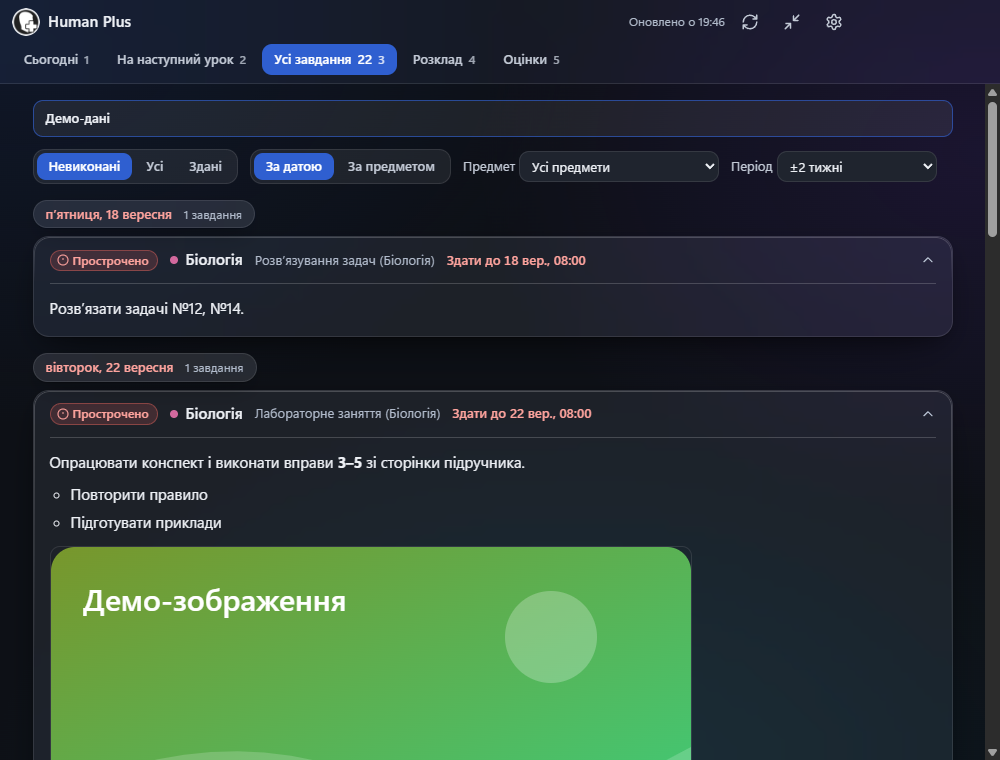
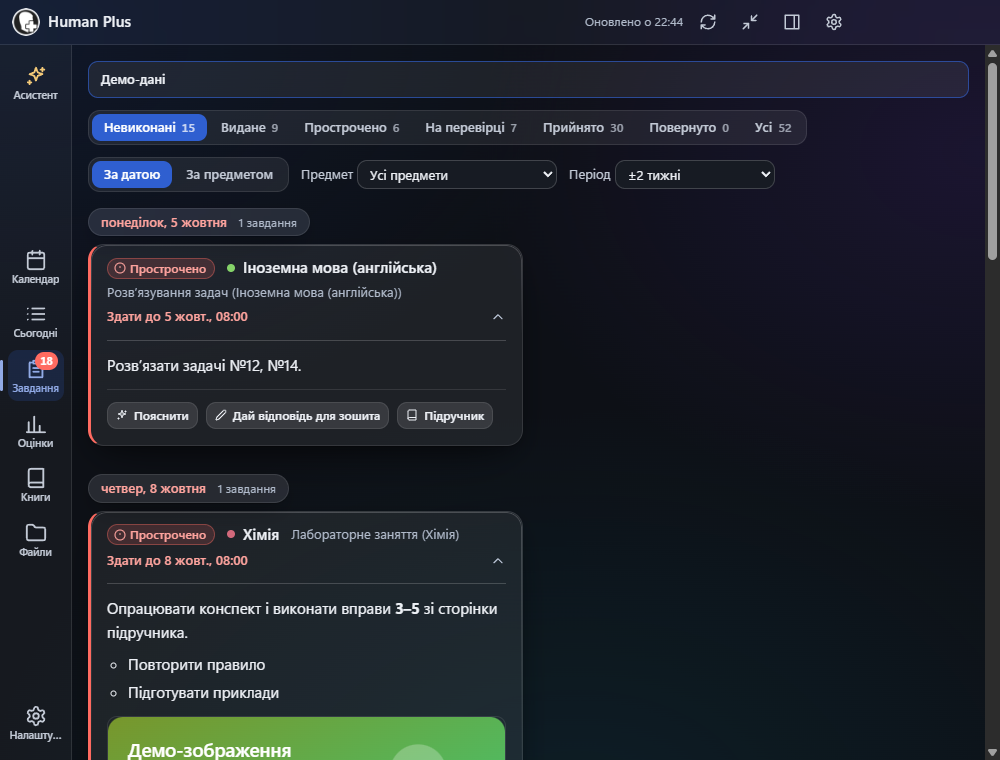
chore: release 1.2.0: README, screenshots, security notes, version bump

diff --git a/src/uk.js b/src/uk.js
@@ -190,9 +190,9 @@ export const uk = {
   },
   about: {
     title: 'Про застосунок',
-    text: 'Human Plus — застосунок для учнів HUMAN Школа, лише для читання. Він показує домашні завдання, розклад і оцінки поточного учня. Застосунок не здає завдань і не змінює даних.',
+    text: 'Human Plus — застосунок для учнів HUMAN Школа, лише для читання. Він показує розклад, домашні завдання й оцінки поточного учня, відкриває підручники й файли, а ШІ-асистент допомагає з уроками. Застосунок не здає завдань і не змінює даних у HUMAN.',
     privacy:
-      'Дані зберігаються лише на цьому комп’ютері. Паролі й токени не зберігаються. Запити йдуть тільки на human.ua.',
+      'Дані зберігаються лише на цьому комп’ютері. Паролі й токени HUMAN не зберігаються, ключі API зашифровані. Запити йдуть на human.ua і, лише коли ви пишете асистенту, на обраний сервіс ШІ.',
     version: 'Версія',
   },
   loginFootnote: 'Вхід відбувається на сторінці HUMAN; пароль до нас не потрапляє.',

diff --git a/scripts/shots.js b/scripts/shots.js
@@ -71,6 +71,14 @@ export async function takeShots({ app, mainWin, patchSettings, service, dir }) {
     }
   }
 
+  // Сторінка уроку з домашнім завданням
+  mode('dark', 'on');
+  await tab('calendar');
+  await js(`document.querySelector('.lcard[data-state="pending"] .lcard-main')?.click()`);
+  await wait(800);
+  await shot('dark-glass-lesson');
+  await js(`document.querySelector('[data-k="lesson-back"]')?.click()`);
+
   // Панель налаштувань (світла й темна)
   for (const theme of ['dark', 'light']) {
     mode(theme, 'on');

diff --git a/src/style.css b/src/style.css
@@ -2573,6 +2573,13 @@ html.glass .lcard {
   font-size: var(--fs-1);
   margin-top: 2px;
 }
+.lcard-time .num,
+.lcard-n {
+  white-space: nowrap;
+}
+.lcard-time {
+  flex-wrap: wrap;
+}
 .lcard-n {
   border: 1px solid rgb(var(--line-rgb) / 0.25);
   border-radius: 4px;

diff --git a/README.md b/README.md
@@ -1,80 +1,96 @@
 # Human Plus
 
-**Застосунок для учнів HUMAN Школа.** Усе важливе для учня на одному екрані: розклад дня, що задано, що не виконано, оцінки.
-Лише читання. Без здач завдань, без чужих даних, без телеметрії.
+**Застосунок для учнів HUMAN Школа з вбудованим ШІ-асистентом.** Розклад, домашні завдання, оцінки, підручники й файли на одному екрані,
+а поруч асистент, який бачить ваші дані й допомагає з уроками. До HUMAN лише читання: без здач завдань, без чужих даних, без телеметрії.
 
-![Сьогодні: таймлайн уроків, клік розкриває заняття й завдання](docs/img/dark-glass-today.png)
+![Календар: тиждень, смужки завдань і оцінок дня, картки уроків](docs/img/dark-glass-calendar.png)
 
-## Що вміє зараз
+## Що вміє
 
-- **Сьогодні:** привітання, таймлайн уроків із підсвіченим поточним уроком і відліком до наступного. **Клік по уроку** розкриває «Заняття» (матеріали уроку)
-  та «Завдання» (що задано на цьому уроці) з повним змістом.
-- **На наступний урок:** для кожного предмета найближчий урок і невиконане ДЗ до нього, окремий блок «На завтра».
-- **Усі завдання:** фільтри «Невиконані / Усі / Здані», предмет, групування за датою чи предметом, прострочене виділене, розгортання на місці.
-- **Розклад:** тиждень із позначкою поточного часу, з урахуванням скасованих уроків і замін.
-- **Оцінки** за предметами.
-- **Увесь вміст усередині застосунку:** текст, заголовки, **фото**, **посилання** (картка з назвою й доменом, відкривається в браузері за кліком),
-  **файли** (зберігаються в «Завантаження» за кліком), формули й таблиці. Жодних кнопок «Відкрити в Human».
-- **Міні-режим «Що задано на завтра»:** це те саме вікно, що стає малим, поверх інших, із регульованою прозорістю (Ctrl+Shift+H).
-- Лічильник невиконаного в треї та на панелі завдань, сповіщення «Завтра дедлайн» раз на день (можна вимкнути).
-- Світла й темна теми, акцентний колір і кольори статусів на вибір, «скляні» ефекти (з автоматичним запасним режимом без прозорості).
-- Офлайн: показуються збережені дані з позначкою; миттєвий старт із кешу, оновлення у фоні.
+- **Календар:** тиждень на 7 днів. Над кожним днем смужки «Завдання здано/усього» й «Оцінки». На картці уроку: предмет, тема, номер уроку й час, матеріали, Zoom і оцінка.
+  **Клік по уроку** відкриває сторінку уроку: тема, «Приєднатися до уроку», домашнє завдання й матеріали з повним змістом.
+- **Сьогодні:** таймлайн уроків дня з відліком до наступного й блок «На завтра».
+- **Завдання:** картки зі статусом і дедлайном, категорії «Невиконані / Видане / Прострочено / На перевірці / Прийнято / Повернуто», фільтр за предметом і періодом.
+- **Оцінки:** таблиця «предмет × дата».
+- **Асистент** (чат на окремій вкладці або поруч із контентом, відповіді стримляться):
+  - сам дивиться розклад, домашку й оцінки (інструменти лише читають дані застосунку);
+  - у кожному завданні є кнопки **«Пояснити»** і **«Дай відповідь для зошита»**;
+  - знаходить сторінку підручника за посиланням із домашки («с. 34, № 2»).
+- **Книги:** завантажте PDF, EPUB, DOCX чи TXT або цілу папку й призначте кожній книзі предмет.
+  - Номери сторінок PDF калібруються автоматично (мітки PDF або номери на полях сторінок, з урахуванням вклейок); калібрувати можна й вручну.
+  - Вбудований читач: виділіть фрагменти й натисніть **«Показати асистенту»**, і він отримає лише їх.
+  - Скани без тексту асистент отримує зображенням сторінки.
+- **Файли:** вкладення з завдань і власні файли відкриваються у вбудованому переглядачі:
+  - зображення з масштабом;
+  - відео й аудіо (потокове відтворення; якщо формат не підтримується — «Відкрити зовні»);
+  - PDF, DOCX, XLSX/CSV, PPTX, текст і код із підсвіткою, список вмісту ZIP.
+  - Програми, HTML, SVG та невідомі формати не відкриваються: їх можна лише зберегти з попередженням.
+- Міні-режим «Що задано на завтра» (Ctrl+Shift+H), лічильник у треї, сповіщення про завтрашні дедлайни, світла й темна теми, офлайн-кеш.
 
-| Усі завдання | Розклад |
+| Сторінка уроку | Завдання |
 |---|---|
-| ![Усі завдання](docs/img/dark-glass-tasks.png) | ![Розклад](docs/img/dark-glass-schedule.png) |
+| ![Сторінка уроку](docs/img/dark-glass-lesson.png) | ![Завдання](docs/img/dark-glass-tasks.png) |
 
-| Світла тема | Без прозорості | Міні-режим | Вузьке вікно |
-|---|---|---|---|
-| ![Світла](docs/img/light-glass-today.png) | ![Без прозорості](docs/img/dark-opaque-today.png) | ![Міні-режим](docs/img/mini.png) | ![Вузьке вікно](docs/img/narrow-long-today.png) |
+| Асистент | Книги | Файли |
+|---|---|---|
+| ![Асистент](docs/img/dark-glass-assistant.png) | ![Книги](docs/img/dark-glass-books.png) | ![Файли](docs/img/dark-glass-files.png) |
+
+| Оцінки | Світла тема | Міні-режим |
+|---|---|---|
+| ![Оцінки](docs/img/dark-glass-grades.png) | ![Світла тема](docs/img/light-glass-tasks.png) | ![Міні-режим](docs/img/mini.png) |
 
 Усі скриншоти зроблено на **демо-даних** (`npm run demo`), персональних даних учня в матеріалах немає.
+
+## Асистент: як підключити
+
+1. **Налаштування → Асистент:** оберіть сервіс ШІ.
+   - **Claude (Anthropic)**, типово, модель `claude-sonnet-5-5`;
+   - **OpenAI-сумісний** (адресу сервісу вказуєте самі, лише https);
+   - **Gemini (Google)**.
+2. Вставте свій ключ API. Ключ зберігається лише зашифрованим (Windows DPAPI) і не показується у вікні, видно тільки маску.
+3. Перед першим запитом застосунок покаже, що саме буде відправлено, і попросить згоди.
+
+Вхід через підписку claude.ai як «бекенд» не підтримується: потрібен ключ API.
 
 ## Чого застосунок **не** робить
 
 - Не здає завдань, не змінює статусів, не пише повідомлень: до HUMAN іде лише `GET`.
-- Не читає й не зберігає пароль чи токени: ви входите самі на справжній сторінці HUMAN всередині вікна.
-- Не бачить чужих даних: лише акаунт учня, що увійшов. Для вчителя й будь-якої іншої ролі показується «Додаток доступний лише для учнів».
-- Не збирає телеметрію й не звертається нікуди, крім `*.human.ua`.
+- Не читає й не зберігає пароль чи токени HUMAN: ви входите самі на справжній сторінці HUMAN усередині вікна.
+- Не бачить чужих даних: лише акаунт учня, що увійшов. Для інших ролей показується «Додаток доступний лише для учнів»,
+  а перед **кожним** запитом до ШІ роль «учень» перевіряється заново (якщо перевірка не вдалась, запит не відправляється).
+- Не відправляє в ШІ цілі книги, ваші файли, пароль чи токени, лише потрібне для відповіді (див. [PRIVACY.md](PRIVACY.md)).
+- Не збирає телеметрію.
 
 ## Як це працює
 
 ```
-вікно (src/app.js, ванільний JS)  ←IPC→  main.js  →  session persist:human  →  api.human.ua / files.human.ua
-        │ лише відмальовування               │ перевірка ролі, кеш, запити (лише GET)
-        └ model.js (вибірки)                 └ service.js → api.js / blocks.js / normalize.js
+вікно (src/app.js, ванільний JS, без мережі)  ←IPC→  main.js ─┬→ session persist:human → api.human.ua / files.human.ua (лише GET)
+                                                             ├→ src/ai/ (контекст, інструменти, провайдери) → сервіс ШІ з вашим ключем
+                                                             ├→ src/books/ (бібліотека, пошук сторінки, калібрування)
+                                                             └→ src/files/ (сховище, протокол hp-file з Range, офісні формати)
 ```
 
-1. Ви входите на сторінці HUMAN (вона відкривається всередині вікна); сесія живе у стандартному сховищі Electron.
-2. `main.js` бере `uid` із куки `last-sub-client-id`, перевіряє роль (`system/info`) і лише для учня завантажує календар та завдання.
-3. `normalize.js` перетворює відповіді на внутрішню модель (`Lesson`, `Task`, `Grade`); `blocks.js` — вміст завдань на безпечні блоки.
-4. Вікно (без доступу до мережі, суворий CSP) лише показує дані; зображення й файли завантажує main-процес.
-
-Усе, що знає про формат HUMAN, зосереджено в `src/api.js`, `src/blocks.js`, `src/normalize.js`.
+- Усе, що знає про формат HUMAN, — у `src/api.js`, `src/blocks.js`, `src/normalize.js`.
+- Усе, що йде в модель, формується в одному місці: `src/ai/context.js`.
+- Вікно працює із суворим CSP (`connect-src 'none'`); мережею користується лише main-процес, і лише в межах `src/allowlist.js`.
 
 ## Приватність
 
-Кеш лежить лише локально, паролі й токени не зберігаються, застосунок нікуди не надсилає дані. Докладніше — [PRIVACY.md](PRIVACY.md).
-Кнопка **«Вийти й стерти дані»** прибирає куки, сховище сесії та кеш.
-
-## Плани
-
-Напрям проєкту змінюється: Human Plus має стати платформою зі вбудованими нейромережами, яка допомагатиме учневі з уроками: завантаження книжок, стеження за оцінками, власна пам'ять.
-Зараз це лише плани, нічого з цього ще не реалізовано.
+Кеш, книги й файли лежать лише локально, паролі й токени HUMAN не зберігаються, ключі API зашифровані. Докладніше — [PRIVACY.md](PRIVACY.md).
 
 ## Встановлення
 
 **[⬇ Завантажити для Windows (остання версія)](https://github.com/PREDATTORRGGDR/Human-Plus/releases/latest)**
 
-- `Human Plus-Setup-1.1.0.exe`: інсталятор (встановлення для поточного користувача, права адміністратора не потрібні);
-- `Human Plus-portable-1.1.0.exe`: портативна версія без встановлення.
+- `Human Plus-Setup-1.2.0.exe`: інсталятор (для поточного користувача, без прав адміністратора). Запуск нового інсталятора оновлює встановлену версію на місці, дані зберігаються;
+- `Human Plus-portable-1.2.0.exe`: портативна версія без встановлення.
 
 Контрольні суми SHA-256 — в описі релізу.
 
 ### Попередження Windows SmartScreen
 
 Застосунок **не підписаний сертифікатом розробника**, тому Windows покаже синє вікно «Windows захистила ваш ПК».
-Це очікувано. Щоб запустити: натисніть **«Докладніше»**, потім **«Виконати в будь-якому разі»**. Файли релізу зібрано локально з цього коду; перевірити файл можна за SHA-256 з опису релізу.
+Щоб запустити: **«Докладніше»** → **«Виконати в будь-якому разі»**. Перевірити файл можна за SHA-256 з опису релізу.
 
 ### З вихідного коду
 
@@ -83,17 +99,18 @@
 ```bash
 npm ci
 npm start          # справжній режим
-npm run demo       # демо без акаунта
+npm run demo       # демо без акаунта (асистент відповідає за сценарієм, без ключа)
 npm test           # тести
 npm run dist       # інсталятор NSIS і portable у папці dist/
 ```
 
 ## Обмеження
 
-- API HUMAN недокументоване й може змінитися: тоді частина секцій деградує (покажемо, що вдалося), а після виправлення в `src/api.js` усе повернеться.
+- API HUMAN недокументоване й може змінитися: тоді частина секцій деградує, а після виправлення в `src/api.js` усе повернеться.
 - Не перевірено на акаунті вчителя: відмова спирається на перелічення ролей і юніт-тести `isStudent`.
-- Скасування, перенесення й заміни уроків перевірено лише на порожніх даних; блоки `tx03`, `qn01`, `pl01` не підтверджені на живих даних (нерозпізнане показується повідомленням).
-- Збірка не підписана (SmartScreen), автооновлення немає. Скляні ефекти Mica/Acrylic працюють у Windows 11 22H2+; на Windows 10 фон суцільний.
+- Асистент перевірено на тестах із підробленими відповідями сервісів; якість відповідей залежить від обраної моделі.
+- OCR немає: скани сторінок асистент отримує зображенням. Відео в форматах, яких не підтримує Chromium (наприклад AVI), відкриваються зовнішнім програвачем.
+- Збірка не підписана (SmartScreen), автооновлення немає.
 
 ## Ліцензія
 

diff --git a/SECURITY.md b/SECURITY.md
@@ -13,8 +13,12 @@
 - Навігація лише на `*.human.ua` (і Microsoft для входу); нові вікна заборонені; зовнішні посилання — лише за кліком і лише безпечні `https`-адреси
   (без IP, localhost, логіна в адресі).
 - Вміст від учителів (HTML) проходить DOMPurify із білим списком тегів; посилання лише `https:`; зображення й файли завантажує main-процес
-  лише з `files.human.ua`, зображення — лише типів PNG/JPEG/GIF/WebP/AVIF (не SVG) і до 8 МБ; виконувані файли не зберігаються.
-- Лише `GET`-запити; ліміт паралельності; перевірка ролі «учень» на кожному оновленні, за невизначеної ролі — відмова.
+  лише з `files.human.ua`, зображення — лише типів PNG/JPEG/GIF/WebP/AVIF (не SVG) і до 8 МБ.
+- Файли учня й вкладення: класифікація за розширенням; програми, HTML, SVG, скрипти й невідомі формати не відкриваються й не рендеряться (лише «зберегти» з попередженням);
+  на диску файли лежать як `<id>.bin`; DOCX → HTML проходить DOMPurify, зображення лише `data:` растрових типів або SVG як `<img>`; медіа віддає протокол `hp-file` лише для зображень, відео й аудіо.
+- ШІ: запити лише з main-процесу й лише на хости з `src/allowlist.js` (`isAllowedAi`); ключі API лише через `safeStorage`, у вікно — лише «є / немає» й маска;
+  перед кожним запитом до моделі — свіжа перевірка ролі «учень» (fail closed); усе, що йде в модель, формується в `src/ai/context.js` з обмеженнями обсягу.
+- До HUMAN лише `GET`-запити; ліміт паралельності; перевірка ролі «учень» на кожному оновленні, за невизначеної ролі — відмова.
 - Залежності зафіксовані точними версіями, ASAR увімкнено, `npm audit` без високих вразливостей перевіряється в CI.
 
 ## Відомі обмеження
